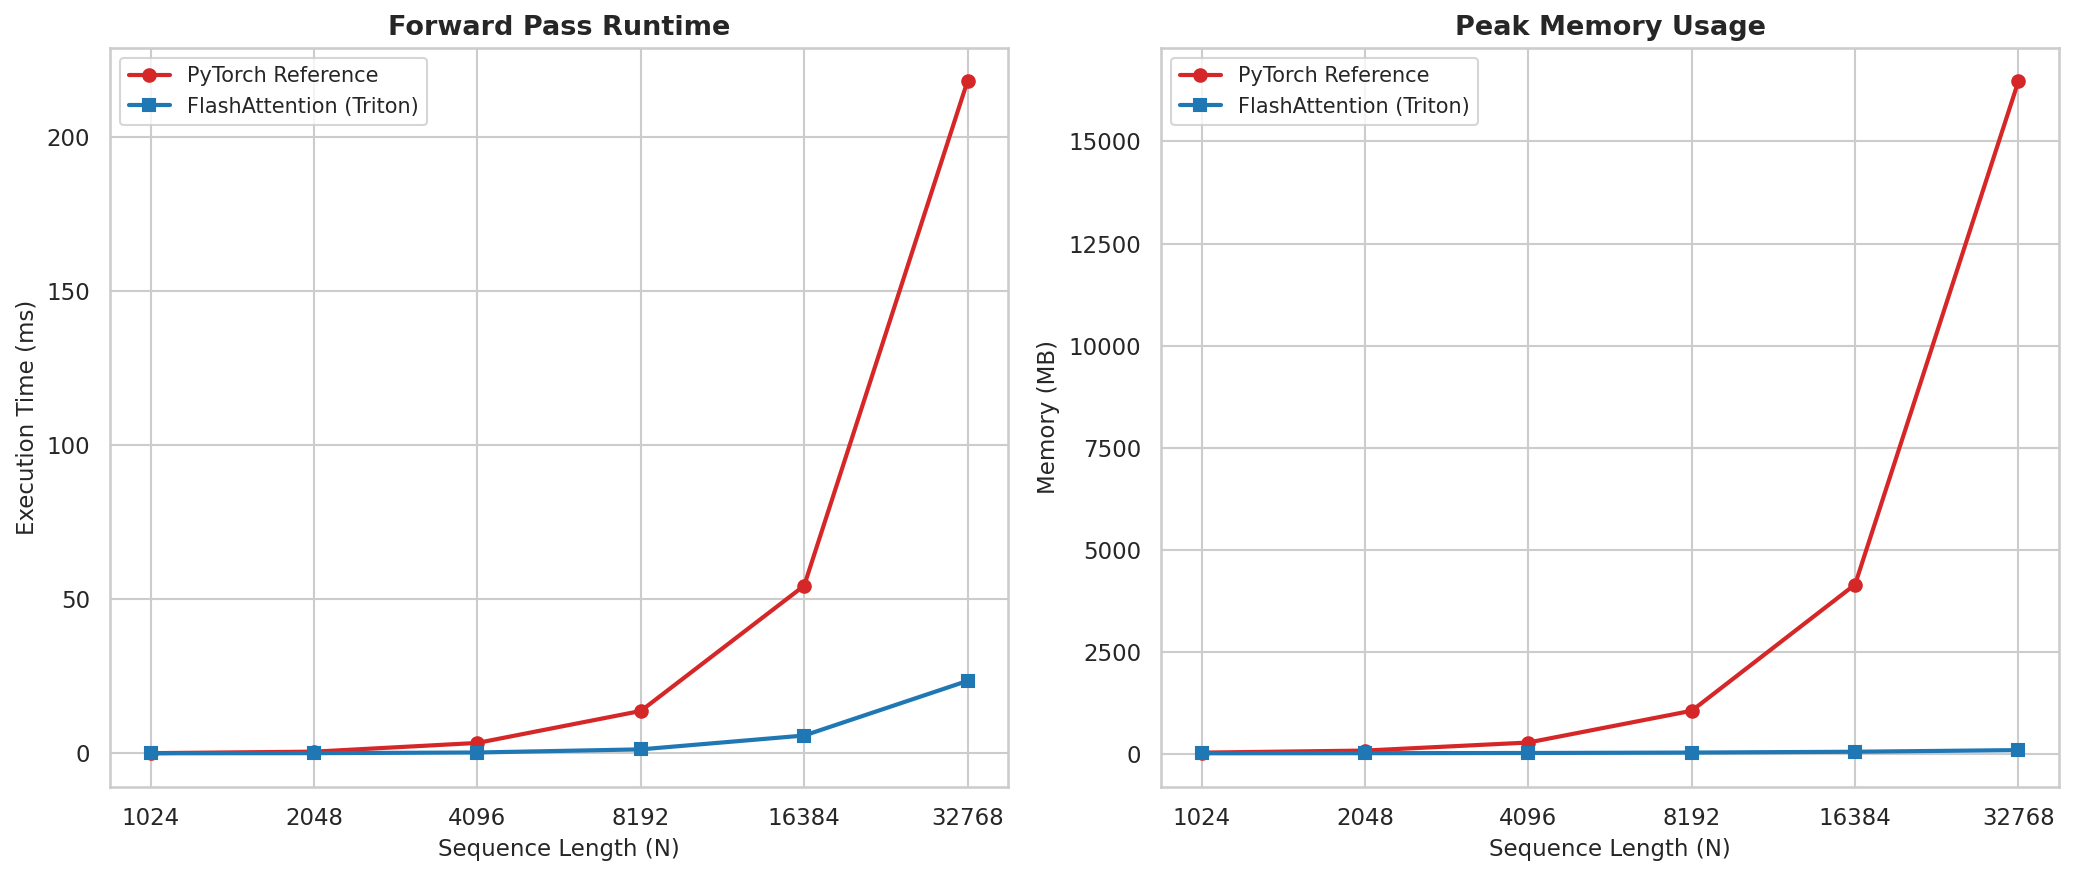
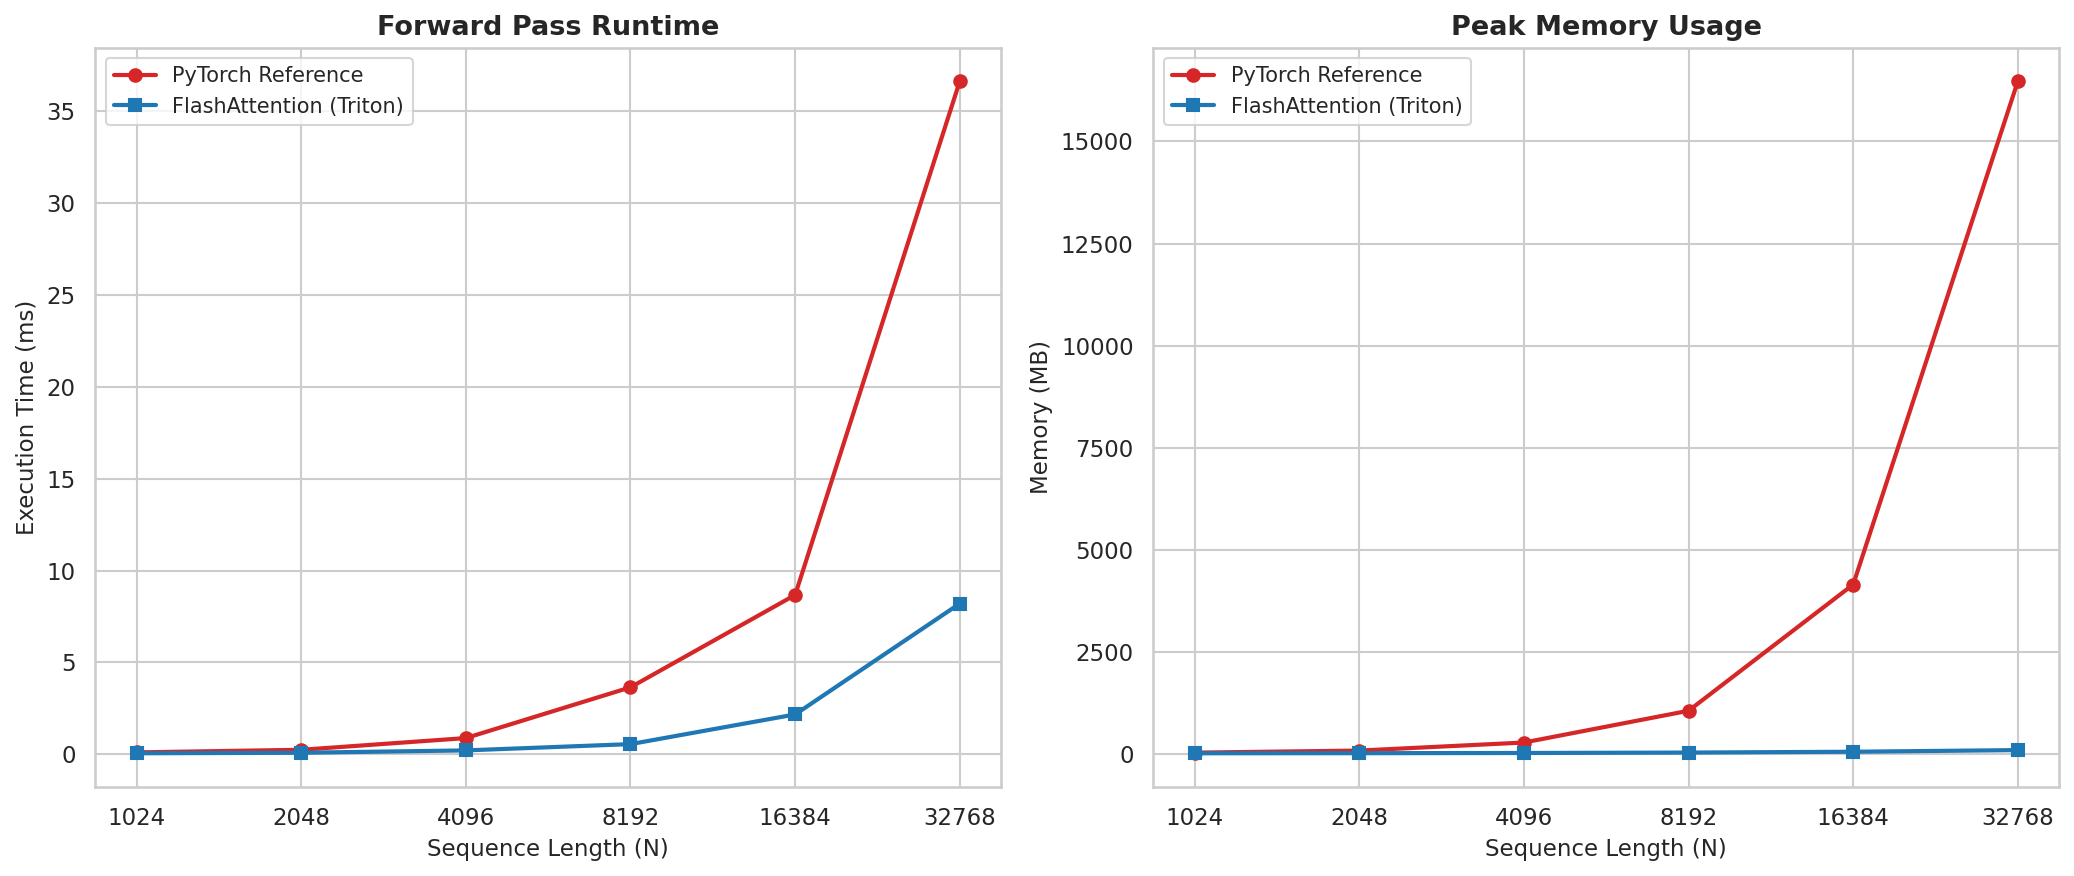
Refresh Triton benchmark PNGs; align README forward speedups with notebook outputs.
Made-with: Cursor

diff --git a/README.md b/README.md
@@ -28,8 +28,8 @@ It is the "model-training + kernel-roofline" notebook for the Pallas path.
 
 ## Results Overview (A100 GPU targets in notebooks / roofline utils)
 
-- **Triton forward scaling (`trition_attn.ipynb`):** speedup grows with sequence length (for example, `6.22x` at `N=2048`, `11.27x` at `N=4096`, and `9.27x` at `N=32768`).
-- **Triton memory scaling:** at `N=32768`, reference forward uses about `16477 MB` while Triton uses about `94 MB`; in backward, reference OOMs at `N=16384` while Triton completes (`~78.5 ms`, `~80 MB` incremental memory).
+- **Triton forward scaling (`trition_attn.ipynb`):** ~`1.9×` @ `N=1024`, ~`3.1×` @ `2048`, ~`4.2×` @ `4096`, ~`6.6×` @ `8192`, ~`4.0×` @ `16384`, ~`4.5×` @ `32768` (`B=1`, `H=4`, `D=64`, FP16).
+- **Triton memory scaling:** at `N=32768`, reference ~`16477 MB`, Triton ~`94 MB`; backward reference OOM at `N=16384`, Triton ~`55.5 ms`, ~`80 MB`.
 - **Pallas end-to-end GPT-2 throughput (`pallas_attn_gpt2.ipynb`):** `xla ~18k tok/s`, `pallas ~29k tok/s`, `cudnn ~35k tok/s` (`pallas` is about `1.6x` over `xla` in this setup).
 - **Pallas kernel-level sweep:** Flash-style kernels show largest gains at long contexts (forward up to `12.45x`, backward up to `7.48x` in the reported `(T, C)` grid).
 - **Roofline signal:** arithmetic intensity jumps strongly for Flash-style kernels (for example at `T=2048, C=64`, forward AI from `~15.5` to `~508 FLOPs/byte`), matching the shift away from memory-bound behavior.
@@ -52,7 +52,7 @@ It is the "model-training + kernel-roofline" notebook for the Pallas path.
 ## Repository Layout
 
 - `utils/` - plotting, roofline, and timing helper utilities.
-- `results/` - generated benchmark figures and roofline plots.
+- `results/` - benchmark figures (`triton_attn/` has forward/backward/roofline PNGs from the Triton notebook).
 
 ## Quick Start
 
